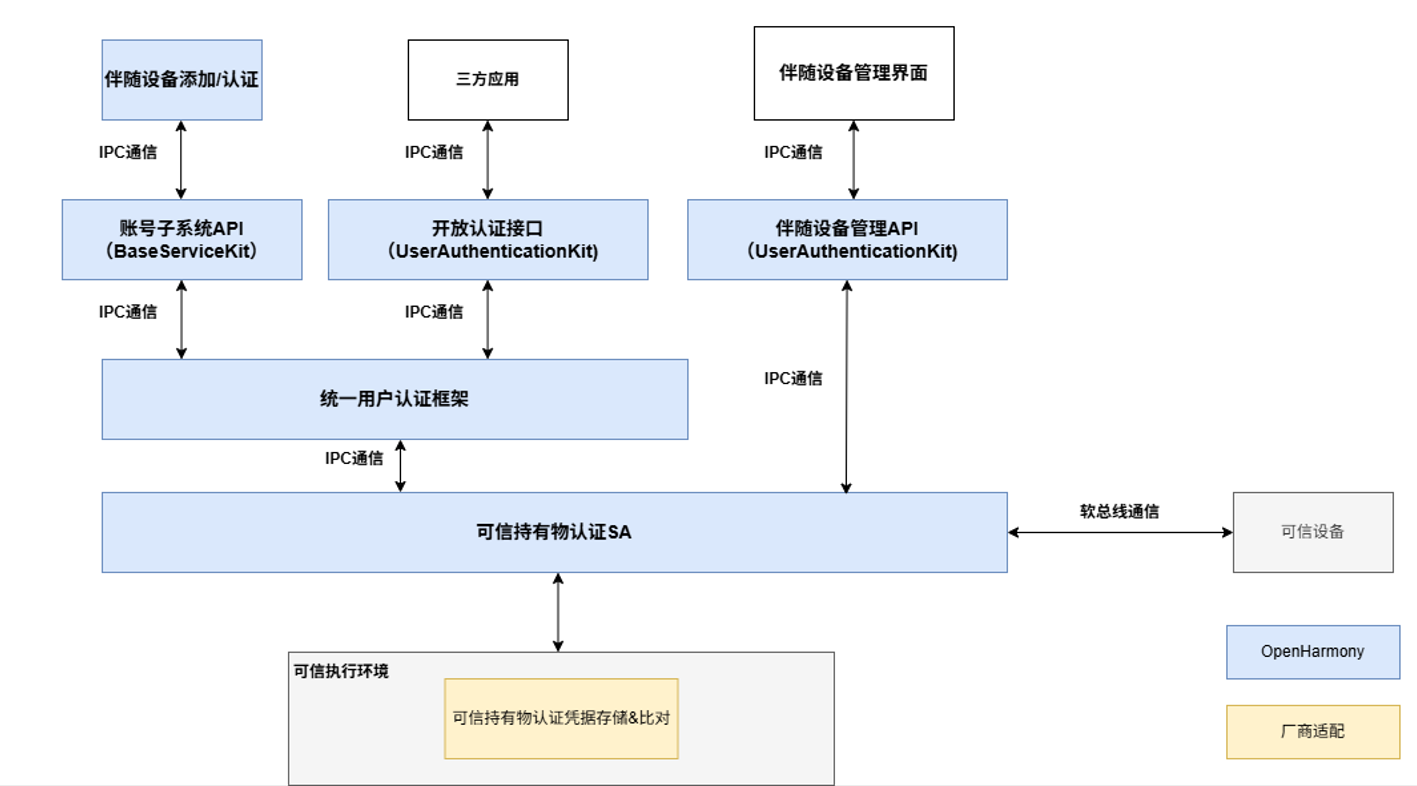
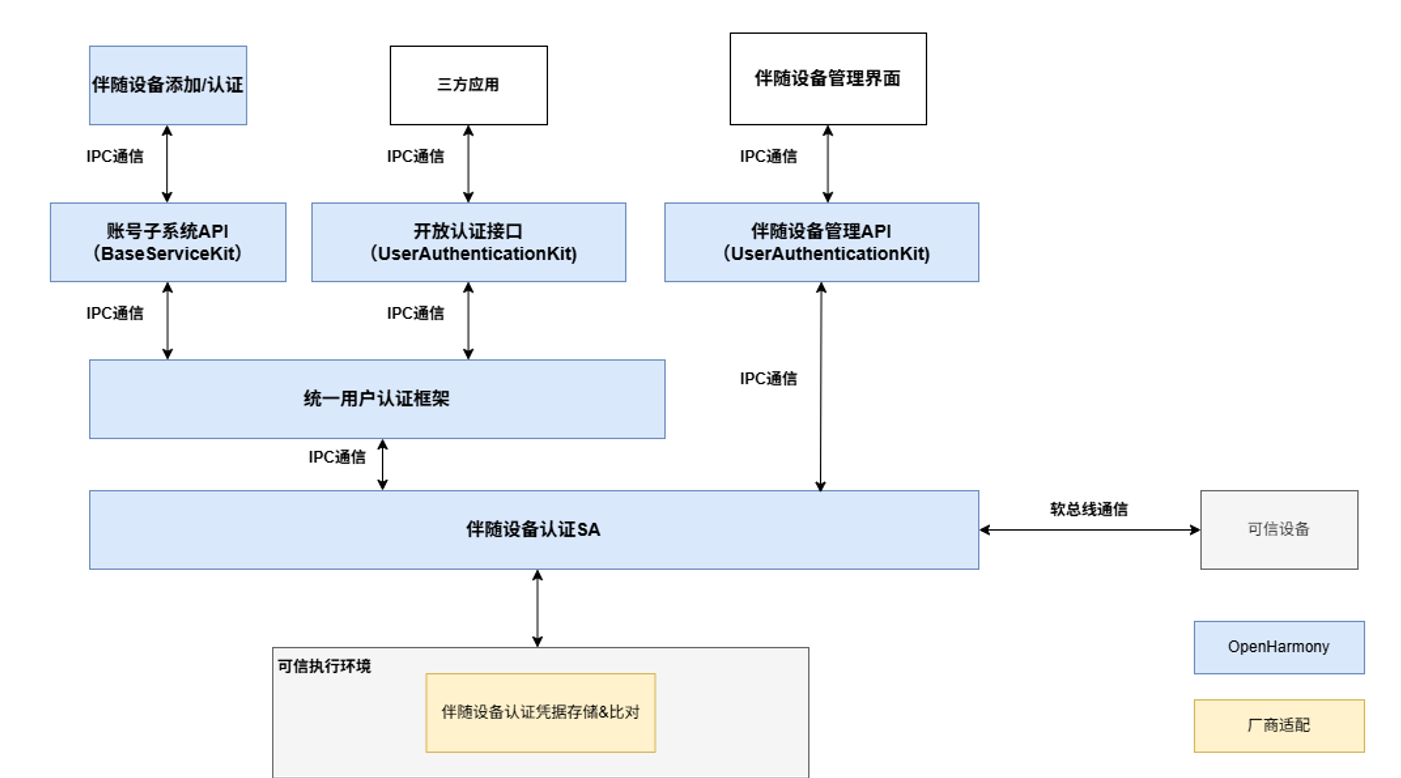
README fix

diff --git a/README_ZH.md b/README_ZH.md
@@ -15,14 +15,14 @@
 
 **图1** 伴随设备认证流程
 <p>
-  <img src="./figures/认证流程.png" alt="可信持有物认证流程图" style="zoom:65%;" />
+  <img src="./figures/认证流程.png" alt="伴随设备认证流程图" style="zoom:65%;" />
 </p>
 
 ### 伴随设备认证前提：机主在主设备上将指定伴随设备添加为自己的身份认证凭据
 
 ### 伴随设备认证流程:
-### 1. 持有物确认当前佩戴/持有自己的用户是机主本人；
-### 2. 主设备确认操作意图来自机主本人。确认方式有两种，一种是通过确认机主在主设备附近，确保操作在机主本人监督下进行；一种是在持有物侧实时做一次机主身份鉴别，或者在已经确认用户身份的持有物侧做一次操作确认。
+### 1. 伴随设备确认当前佩戴/持有自己的用户是机主本人；
+### 2. 主设备确认操作意图来自机主本人。确认方式有两种，一种是通过确认机主在主设备附近，确保操作在机主本人监督下进行；一种是在伴随设备侧实时做一次机主身份鉴别，或者在已经确认用户身份的伴随设备侧做一次操作确认。
 
 **表1** 伴随设备认证阶段
 
@@ -30,7 +30,7 @@
 | ------ | ----- |----- | ------ |
 | 伴随设备添加阶段 | 设备间可信关系的确定 | 持有设备与主设备必须有用户显示建立的可信关系，一方面证明两个设备共机主，另一方面该可信关系可用于两个设备间在认证阶段可信地交换伴随设备认证报文|若两个设备间不存在可信关系，那伴随设备认证的信任基础便不存在，伴随设备确认了自己机主的身份并不能证明该用户同时是主设备的机主 |
 | 伴随设备认证阶段 | 伴随设备确认用户身份 | 伴随设备进入认证生效状态前，需先确认当前持有自己的用户身份。如手表佩戴后要先解锁，才能作为伴随设备认证通过解锁用户手机 | 如果伴随设备进入可信状态前没有对用户身份进行确认，那任何捡到伴随设备的人都可以冒充机主身份 |
-| 伴随设备认证阶段 | 证明操作意图来自机主本人 | 方式一（主设备确认机主在附近）：例如手机通过手表佩戴检测+手机对手表的测距证明佩戴者手表的机主在手机附近 | 如果没有确认操作意图来自机主，则仿冒用户可能在机主视线范围外通过持有物无感认证，对认证设备进行越权操作 |
+| 伴随设备认证阶段 | 证明操作意图来自机主本人 | 方式一（主设备确认机主在附近）：例如手机通过手表佩戴检测+手机对手表的测距证明佩戴者手表的机主在手机附近 | 如果没有确认操作意图来自机主，则仿冒用户可能在机主视线范围外通过伴随设备无感认证，对认证设备进行越权操作 |
 | 伴随设备认证阶段 | 证明操作意图来自机主本人 | 方式二（伴随设备确认用户操作意图）：例如：1. 让用户在伴随设备侧立即做一次身份认证，如U盾密码认证 2.机主在已经认证生效的伴随设备侧点击确认，如用户在已经解锁的手表界面确认操作信息 | 如果没有确认操作意图来自机主，则仿冒用户可能在机主视线范围外通过伴随设备无感认证，对认证设备进行越权操作 |
 
 ### 伴随设备认证是OpenHarmony支持的一种用户认证执行器，按照统一用户认证定义的资源注册接口，将伴随设备认证相关资源信息注册到统一用户认证框架，并根据框架调完成可信设备的注册、删除和认证。
@@ -127,11 +127,11 @@
 | StatusMonitor.offTemplateChange(callback?: TemplateStatusCallback): void | 注销监听已添加的可信设备的状态变化 |
 | StatusMonitor.onAvailableDeviceChange(callback: AvailableDeviceStatusCallback): void | 注册监听在线可添加的设备状态变化 |
 | StatusMonitor.offAvailableDeviceChange(callback?: AvailableDeviceStatusCallback): void | 注销监听在线可添加的设备状态变化，主要用于手表、耳机等有佩戴检测的穿戴设备，可持续认证用户身份 |
-| StatusMonitor.onContinuousAuthChange(param: ContinuousAuthParam, callback: ContinuousAuthStatusCallback): void | 注册监听可信持有物的持续身份认证情况 |
-| StatusMonitor.offContinuousAuthChange(callback?: ContinuousAuthStatusCallback): void | 注销监听可信持有物的持续身份认证情况 |
+| StatusMonitor.onContinuousAuthChange(param: ContinuousAuthParam, callback: ContinuousAuthStatusCallback): void | 注册监听伴随设备的持续身份认证情况 |
+| StatusMonitor.offContinuousAuthChange(callback?: ContinuousAuthStatusCallback): void | 注销监听伴随设备的持续身份认证情况 |
 
 ### 使用说明
-- 需在尽可能安全的环境中实现头文件services/singleton/inc/security_agent/security_agent.h中定义的接口，确保可信持有物认证结果的安全性。
+- 需在尽可能安全的环境中实现头文件services/singleton/inc/security_agent/security_agent.h中定义的接口，确保伴随设备认证结果的安全性。
 
 ## 相关仓
 
